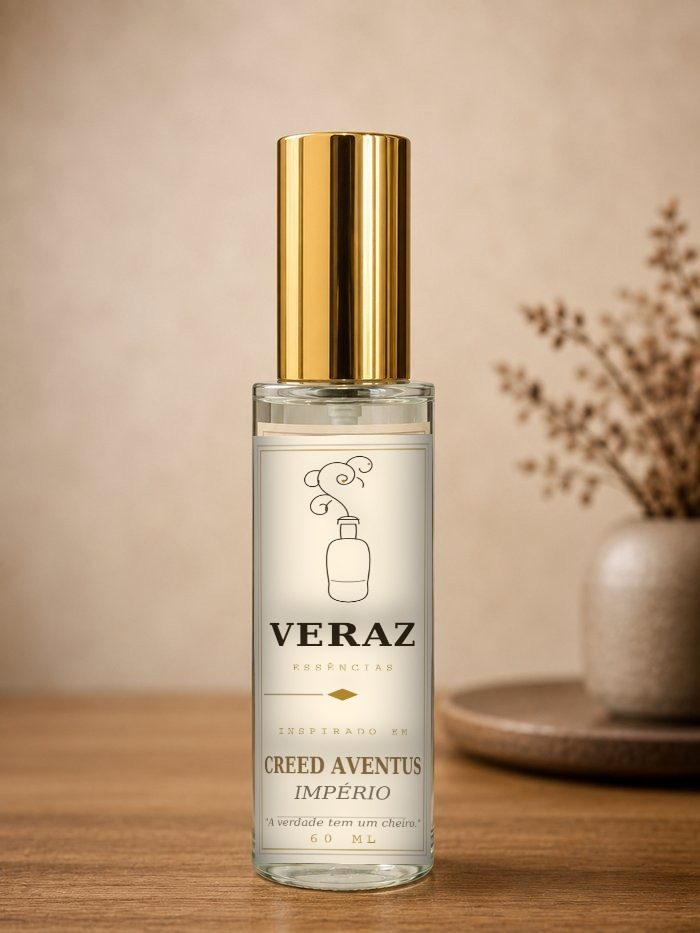
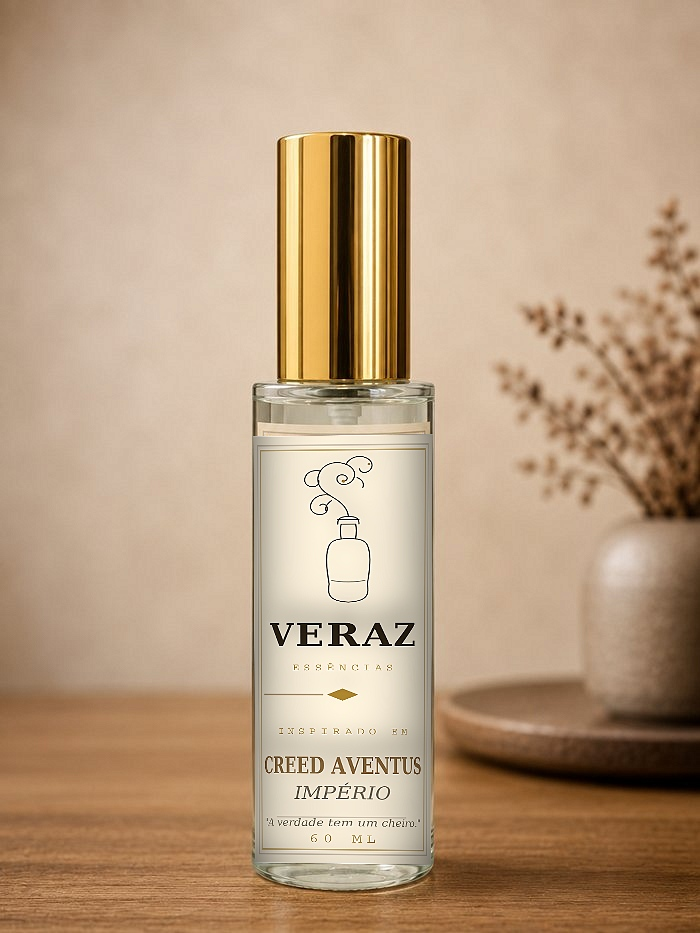
Add files via upload

Changed region(s): [[0.39, 0.4662, 0.6, 0.7149], [0.36, 0.8081, 0.6, 0.9014]]

diff --git a/index.html b/index.html
@@ -272,7 +272,7 @@
   .card:hover{transform:translateY(-6px); box-shadow:0 20px 40px rgba(27,18,10,0.12);}
   .card-icon{width:56px; height:auto; margin:0 auto 18px; color:var(--ink-soft); transition:color .3s ease;}
   .card-photo-frame{
-    width:132px; height:132px; margin:0 auto 16px; border-radius:12px; overflow:hidden;
+    width:150px; height:150px; margin:0 auto 16px; border-radius:12px; overflow:hidden;
     box-shadow:0 8px 16px rgba(140,106,46,0.3);
   }
   .card-photo{
@@ -642,16 +642,16 @@
   };
 
   const PRODUCTS = [
-    {insp:"Coco Mademoiselle", nome:"Presença",  linha:"feminino",  foto:"frasco-real.jpeg", blurb:"Autoridade silenciosa. Sofisticação que não precisa gritar.", precoOriginal:129.90, preco:99.90,  decantOriginal:14.90, decant:12.90, notas:{topo:"Laranja, Bergamota", coracao:"Jasmim, Rosa, Mimosa", fundo:"Patchouli, Baunilha, Vetiver"}},
-    {insp:"Scandal",           nome:"Ousadia",    linha:"feminino",  foto:"frasco-escandalo.jpg", blurb:"Sedução confiante, energia que enche a sala.",                precoOriginal:129.90, preco:99.90,  decantOriginal:14.90, decant:12.90, notas:{topo:"Laranja Sanguínea, Gardênia", coracao:"Mel, Jasmim", fundo:"Patchouli, Pralinê"}},
-    {insp:"Good Girl",         nome:"Dualidade",  linha:"feminino",  foto:"frasco-menina-boa.jpg", blurb:"Doce por fora, implacável por dentro.",                       precoOriginal:139.90, preco:109.90, decantOriginal:16.90, decant:13.90, notas:{topo:"Tuberosa, Jasmim Sambac", coracao:"Café, Amêndoa", fundo:"Fava Tonka, Cacau"}},
-    {insp:"Chloé",             nome:"Romance",    linha:"feminino",  foto:"frasco-cloe.jpg", blurb:"Feminilidade romântica, leveza que fica no ar.",              precoOriginal:119.90, preco:89.90,  decantOriginal:13.90, decant:11.90, notas:{topo:"Peônia, Lichia, Fresia", coracao:"Rosa, Magnólia", fundo:"Âmbar, Almíscar, Cedro"}},
-    {insp:"Olympéa",           nome:"Magnética",  linha:"feminino",  foto:"frasco-olimpia.jpg", blurb:"Sensualidade moderna, presença marcante à noite.",            precoOriginal:139.90, preco:109.90, decantOriginal:16.90, decant:13.90, notas:{topo:"Tangerina, Flor de Gengibre", coracao:"Jasmim, Baunilha Salgada", fundo:"Âmbar Cinza, Cashmere Wood"}},
-    {insp:"212 VIP Black",     nome:"Noturno",    linha:"masculino", foto:"frasco-212-vip-preto.jpg", blurb:"Domínio. Presença forte onde a noite começa.",                precoOriginal:129.90, preco:99.90,  decantOriginal:14.90, decant:12.90, notas:{topo:"Café, Açafrão", coracao:"Tabaco, Conhaque", fundo:"Couro, Âmbar"}},
-    {insp:"Sauvage",           nome:"Liberdade",  linha:"masculino", foto:"frasco-selvagem.jpg", blurb:"Versátil. Do trabalho ao fim de semana, sem esforço.",        precoOriginal:119.90, preco:89.90,  decantOriginal:13.90, decant:11.90, notas:{topo:"Bergamota da Calábria", coracao:"Pimenta de Sichuan, Lavanda", fundo:"Ambroxan, Cedro"}},
-    {insp:"Hugo Boss",         nome:"Executivo",  linha:"masculino", foto:"frasco-chefe.jpg", blurb:"Tradição e confiança pra antes de qualquer reunião.",         precoOriginal:109.90, preco:84.90,  decantOriginal:14.90, decant:12.90, notas:{topo:"Maçã, Ameixa", coracao:"Canela, Gerânio", fundo:"Sândalo, Baunilha, Cedro"}},
-    {insp:"Acqua di Gio",      nome:"Oceano",     linha:"masculino", foto:"frasco-agua-marinha.jpg", blurb:"Frescor, energia, verão o ano inteiro.",                      precoOriginal:109.90, preco:84.90,  decantOriginal:14.90, decant:12.90, notas:{topo:"Notas Marinhas, Bergamota", coracao:"Jasmim, Calone, Alecrim", fundo:"Almíscar Branco, Cedro, Patchouli"}},
-    {insp:"Creed Aventus",     nome:"Império",    linha:"masculino", foto:"frasco-legado.jpg", blurb:"Poder e conquista. Presença de quem lidera.",                 precoOriginal:159.90, preco:119.90, decantOriginal:18.90, decant:14.90, notas:{topo:"Abacaxi, Cassis, Bergamota", coracao:"Bétula, Patchouli, Jasmim", fundo:"Almíscar, Musgo de Carvalho, Âmbar Cinza"}},
+    {insp:"Coco Mademoiselle", nome:"Presença",  linha:"feminino",  foto:"frasco-real.jpeg?v=2", blurb:"Autoridade silenciosa. Sofisticação que não precisa gritar.", precoOriginal:129.90, preco:99.90,  decantOriginal:14.90, decant:12.90, notas:{topo:"Laranja, Bergamota", coracao:"Jasmim, Rosa, Mimosa", fundo:"Patchouli, Baunilha, Vetiver"}},
+    {insp:"Scandal",           nome:"Ousadia",    linha:"feminino",  foto:"frasco-escandalo.jpg?v=2", blurb:"Sedução confiante, energia que enche a sala.",                precoOriginal:129.90, preco:99.90,  decantOriginal:14.90, decant:12.90, notas:{topo:"Laranja Sanguínea, Gardênia", coracao:"Mel, Jasmim", fundo:"Patchouli, Pralinê"}},
+    {insp:"Good Girl",         nome:"Dualidade",  linha:"feminino",  foto:"frasco-menina-boa.jpg?v=2", blurb:"Doce por fora, implacável por dentro.",                       precoOriginal:139.90, preco:109.90, decantOriginal:16.90, decant:13.90, notas:{topo:"Tuberosa, Jasmim Sambac", coracao:"Café, Amêndoa", fundo:"Fava Tonka, Cacau"}},
+    {insp:"Chloé",             nome:"Romance",    linha:"feminino",  foto:"frasco-cloe.jpg?v=2", blurb:"Feminilidade romântica, leveza que fica no ar.",              precoOriginal:119.90, preco:89.90,  decantOriginal:13.90, decant:11.90, notas:{topo:"Peônia, Lichia, Fresia", coracao:"Rosa, Magnólia", fundo:"Âmbar, Almíscar, Cedro"}},
+    {insp:"Olympéa",           nome:"Magnética",  linha:"feminino",  foto:"frasco-olimpia.jpg?v=2", blurb:"Sensualidade moderna, presença marcante à noite.",            precoOriginal:139.90, preco:109.90, decantOriginal:16.90, decant:13.90, notas:{topo:"Tangerina, Flor de Gengibre", coracao:"Jasmim, Baunilha Salgada", fundo:"Âmbar Cinza, Cashmere Wood"}},
+    {insp:"212 VIP Black",     nome:"Noturno",    linha:"masculino", foto:"frasco-212-vip-preto.jpg?v=2", blurb:"Domínio. Presença forte onde a noite começa.",                precoOriginal:129.90, preco:99.90,  decantOriginal:14.90, decant:12.90, notas:{topo:"Café, Açafrão", coracao:"Tabaco, Conhaque", fundo:"Couro, Âmbar"}},
+    {insp:"Sauvage",           nome:"Liberdade",  linha:"masculino", foto:"frasco-selvagem.jpg?v=2", blurb:"Versátil. Do trabalho ao fim de semana, sem esforço.",        precoOriginal:119.90, preco:89.90,  decantOriginal:13.90, decant:11.90, notas:{topo:"Bergamota da Calábria", coracao:"Pimenta de Sichuan, Lavanda", fundo:"Ambroxan, Cedro"}},
+    {insp:"Hugo Boss",         nome:"Executivo",  linha:"masculino", foto:"frasco-chefe.jpg?v=2", blurb:"Tradição e confiança pra antes de qualquer reunião.",         precoOriginal:109.90, preco:84.90,  decantOriginal:14.90, decant:12.90, notas:{topo:"Maçã, Ameixa", coracao:"Canela, Gerânio", fundo:"Sândalo, Baunilha, Cedro"}},
+    {insp:"Acqua di Gio",      nome:"Oceano",     linha:"masculino", foto:"frasco-agua-marinha.jpg?v=2", blurb:"Frescor, energia, verão o ano inteiro.",                      precoOriginal:109.90, preco:84.90,  decantOriginal:14.90, decant:12.90, notas:{topo:"Notas Marinhas, Bergamota", coracao:"Jasmim, Calone, Alecrim", fundo:"Almíscar Branco, Cedro, Patchouli"}},
+    {insp:"Creed Aventus",     nome:"Império",    linha:"masculino", foto:"frasco-legado.jpg?v=2", blurb:"Poder e conquista. Presença de quem lidera.",                 precoOriginal:159.90, preco:119.90, decantOriginal:18.90, decant:14.90, notas:{topo:"Abacaxi, Cassis, Bergamota", coracao:"Bétula, Patchouli, Jasmim", fundo:"Almíscar, Musgo de Carvalho, Âmbar Cinza"}},
   ];
 </script>
 
@@ -710,7 +710,7 @@
       <a href="#essencias" class="btn-gold">Ver Catálogo</a>
     </div>
     <div class="store-banner-visual">
-      <img src="frasco-real.jpeg" alt="Frasco VERAZ Presença, inspirado em Coco Mademoiselle">
+      <img src="frasco-real.jpeg?v=2" alt="Frasco VERAZ Presença, inspirado em Coco Mademoiselle">
     </div>
   </div>
 </section>
